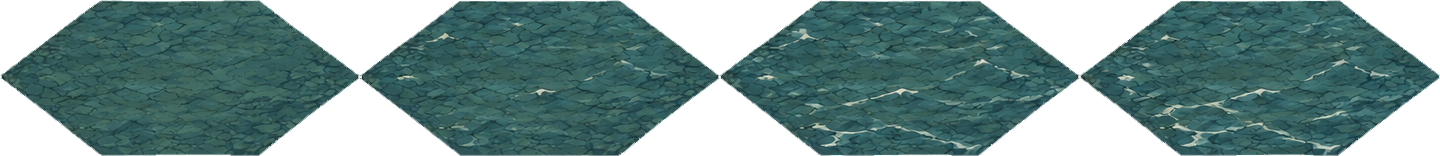
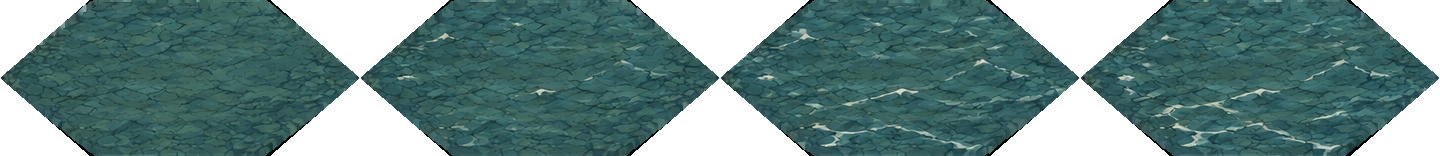
Let the pond be one body of water
Two defects, and the second one was a bad argument of mine rather than a bug.

The cells did not join. Measured by connected components of the water against a
dry board: five cells drawing as three pieces, with a 5px strip of dry ground
along every shared edge. The mesh was not at fault and that had to be shown
before fixing anything - (6,5) and (7,5) share their corners to the last digit,
a flat board with no walls or ramps still gave three pieces, and depth from 0.15
to 1.20 did not change the count, so nothing was occluding it either.

It was the art. The sheet arrived keyed, so its hexagon is carried by the alpha
and fades out over 3-7px; a frame is cut to the plate exactly, so that fade sits
on the frame's own boundary and two cells meeting lay two of them on top of each
other. Alpha 15 of 255 at the outermost column. Fixed where it was made: the
mesh is already a hexagon, so the texture must not be one too - water_sheet.py
carries the colour outward and sets the alpha to the plate's own hexagon, hard,
which is exactly how the pond behaved as a flat colour with no texture at all.
SwellBleed stays for what a hard mask cannot help, a linear sample reaching half
a texel past the edge, and WaterArt.EdgeAlpha measures what the mesh can
actually reach: 0.58 before, 1.00 after, one component instead of three.

And the per-cell phase is gone. It was put in on the rule every clock in this
bench obeys - three tanks tremble on their own - and that rule is about separate
[…]

diff --git a/GodotTest/scripts/Stage3D.cs b/GodotTest/scripts/Stage3D.cs
@@ -938,7 +938,7 @@ void fragment() {{
     /// with it - so water that let most of the bottom through would read as a stain
     /// on the grass, and water that let none through would read as a hole.
     /// </summary>
-    public static readonly Color Pond = new(0.038f, 0.117f, 0.112f, 0.66f);
+    public static readonly Color Pond = new(0.038f, 0.114f, 0.110f, 0.66f);
 
     /// <summary>
     /// What a wading tank's submerged half is tinted with: the drawn surface's
@@ -1180,6 +1180,12 @@ void fragment() {{
             halfX = Mathf.Max(halfX, Mathf.Abs(c.X));
             halfZ = Mathf.Max(halfZ, Mathf.Abs(c.Z));
         }
+        // Pulled in off its own boundary, exactly as the ground faces are - see
+        // Bleed, which is this defect solved once already.
+        Vector2 inset = drawn
+            ? new Vector2(1.0f - 2.0f * SwellBleed / Surf!.Frame.X,
+                          1.0f - 2.0f * SwellBleed / Surf!.Frame.Y)
+            : Vector2.One;
         var st = new SurfaceTool();
         st.Begin(Mesh.PrimitiveType.Triangles);
         bool any = false;
@@ -1192,7 +1198,6 @@ void fragment() {{
             any = true;
             Vector2 flat = Origin + Field.FlatAnchor(cell) + Field.CentreOffset;
             Vector3 top = World(flat, Field.WaterTop(cell));
-            var offset = new Vector2(SwellAt(cell), 0.0f);
             for (int i = 1; i + 1 < 6; i++)
             foreach (int k in new[] { 0, i, i + 1 })
             {
@@ -1200,9 +1205,9 @@ void fragment() {{
                 // +Z reads as +v, the same way the ground art is laid on a top
                 // face: two conventions in one scene is how a texture comes out
                 // mirrored on one surface and nobody can say against what.
-                st.SetUV(new Vector2(0.5f + corner[k].X / (2.0f * halfX),
-                                     0.5f + corner[k].Z / (2.0f * halfZ)));
-                st.SetUV2(offset);
+                st.SetUV(new Vector2(
+                    0.5f + inset.X * corner[k].X / (2.0f * halfX),
+                    0.5f + inset.Y * corner[k].Z / (2.0f * halfZ)));
                 st.AddVertex(top + corner[k]);
             }
         }
@@ -1216,26 +1221,24 @@ void fragment() {{
     }
 
     /// <summary>
-    /// Where in the loop a cell starts, 0..1.
+    /// How far inside its own frame the surface stops sampling, in art px.
     ///
-    /// <b>Per cell, because five hexagons breathing together are one animation
-    /// played five times.</b> That is the objection every clock in this project
-    /// has already answered - the three tanks have their own tremble, their own
-    /// exhaust, their own gunner - arriving at the one surface that is drawn as a
-    /// single mesh and would otherwise pulse as one.
+    /// <b>The belt, not the braces.</b> What actually broke the pond was the art
+    /// carrying a keyed rim: a frame is exactly the plate, so the hexagon faded
+    /// out on the frame's own boundary, two cells meeting laid two fades on top of
+    /// each other, and the five-cell pond drew as three pieces with a 5px strip of
+    /// dry ground along every shared edge. That is fixed where it was made -
+    /// <c>water_sheet.py</c> hardens the alpha, because <b>the mesh is already a
+    /// hexagon and the texture must not be one too</b>.
     ///
-    /// Hashed off the cell rather than drawn from a generator, for
-    /// <see cref="TerrainSet.MixedAt"/>'s reason: --capture and --trace fix the
-    /// time step so two runs can be diffed, and a pond that reshuffled itself
-    /// would be measuring itself.
+    /// This stays for what a hard mask cannot help: the outermost texel of a hard
+    /// edge is still half a texel from the boundary, and a linear sample there
+    /// reaches across it. Eight is 2.2% of a 360px plate, the same fraction
+    /// <see cref="Bleed"/> takes off the ground's 248px plate for the same reason.
+    /// <see cref="WaterArt.EdgeAlpha"/> is what holds the pair honest: it measures
+    /// the alpha the mesh can actually reach, after this.
     /// </summary>
-    public static float SwellAt(Vector2I cell)
-    {
-        int h = cell.X * 73856093 ^ cell.Y * 19349663;
-        h = (h ^ (h >> 13)) * 1274126177;
-        h ^= h >> 16;
-        return ((uint)h % 1000u) / 1000.0f;
-    }
+    internal const float SwellBleed = 8.0f;
 
     /// <summary>
     /// How long one turn of the water's frames takes, in seconds.
@@ -1271,11 +1274,18 @@ void fragment() {{
     /// The pond's surface: one frame of the strip, chosen per cell and per
     /// moment, at the flat colour's own opacity.
     ///
-    /// <b>The step is taken in the shader and not in the mesh</b>, which is the
-    /// whole reason the phase rides in UV2. Advancing the frame by rewriting the
-    /// UVs would rebuild the board's geometry sixty times a second for a picture
-    /// that has not changed shape - and <see cref="Build"/> is deliberately gated
-    /// on the board changing at all.
+    /// <b>One phase for the whole pond, and the per-cell one was wrong.</b> It was
+    /// put in on the rule every clock in this bench obeys - three tanks tremble on
+    /// their own, exhaust on their own, scan on their own - and that rule is about
+    /// <i>separate objects</i>. A pond is one body of water. Desynchronised, its
+    /// cells show different moments of the same swell either side of a shared edge,
+    /// so the edge is the one place the picture disagrees with itself, and every
+    /// cell boundary is drawn by the water rather than hidden by it.
+    ///
+    /// <b>The step is taken in the shader and not in the mesh.</b> Advancing the
+    /// frame by rewriting the UVs would rebuild the board's geometry sixty times a
+    /// second for a picture that has not changed shape - and <see cref="Build"/> is
+    /// deliberately gated on the board changing at all.
     ///
     /// <b>Inset by half a texel.</b> A frame is exactly the plate, so the
     /// hexagon's left and right vertices sit on the frame's own boundary, and a
@@ -1294,7 +1304,7 @@ uniform vec4 tint = vec4(0.0);
 uniform float frames = 1.0;
 uniform float phase = 0.0;
 void fragment() {
-    float step = floor(fract(phase + UV2.x) * frames);
+    float step = floor(fract(phase) * frames);
     float inset = 0.5 * frames / float(textureSize(surf, 0).x);
     float u = clamp(UV.x, inset, 1.0 - inset);
     vec4 c = texture(surf, vec2((u + step) / frames, UV.y));

diff --git a/water_sheet.py b/water_sheet.py
@@ -31,6 +31,12 @@ The other two reasons, both measured (see ``report``):
   seam anything over 4.  The full twelve do not: their wrap is 41.5 against a
   worst normal step of 33.2.
 
+And one thing the frames arrive with that has to be taken off them: **the keyed
+rim**.  The sheet came shaped by its alpha, which is right for a picture standing
+on its own and wrong here, because the surface mesh is already that hexagon.  Two
+cells meeting edge to edge laid two fades on top of each other and the pond drew
+as separate pieces - see ``_harden``.
+
 Plain Python, no Blender: this is a pure function of pixels, the same argument
 ``atlas_pack.repack_dir`` makes.
 
@@ -140,6 +146,61 @@ def _linear(c: int) -> float:
     return v / 12.92 if v <= 0.04045 else ((v + 0.055) / 1.055) ** 2.4
 
 
+def _harden(frame: np.ndarray) -> np.ndarray:
+    """Give the frame a hard hexagon and colour that reaches it.
+
+    **The mesh is already a hexagon, so the texture must not be one too.**  The
+    sheet arrived keyed, which means its hexagon fades out over three to seven
+    pixels of rim - and a frame is cut to the plate exactly, so that rim sits on
+    the frame's own boundary.  Two cells meeting edge to edge then lay two of
+    those fades on top of each other, and the pond draws as separate pieces with
+    dry ground along every shared edge.  Measured on the first cut: alpha 15 of
+    255 at the outermost column, five cells rendering as three.
+
+    So the alpha becomes the plate's own hexagon, hard: opaque inside, nothing
+    outside, no rim to double up.  The shape is not lost - the surface mesh is
+    that same hexagon, and it is what cuts the silhouette, exactly as it did when
+    the pond was a flat colour with no texture at all.
+
+    Colour is carried outward first.  Where alpha was low the stored colour is
+    whatever survived unpremultiplying near zero, and turning that opaque would
+    hang a dark fringe on the water; each pass hands an unresolved pixel the mean
+    of its solid neighbours, which is the same trick that fills a keyed sheet's
+    edge everywhere else in this project.
+    """
+    out = frame.astype(np.float64).copy()
+    solid = out[:, :, 3] > 250
+    for _ in range(_FILL_PASSES):
+        if solid.all():
+            break
+        near = np.zeros(out.shape[:2] + (4,), dtype=np.float64)
+        count = np.zeros(out.shape[:2], dtype=np.float64)
+        for dy, dx in ((1, 0), (-1, 0), (0, 1), (0, -1)):
+            rolled = np.roll(np.roll(out[:, :, :3] * solid[:, :, None], dy, 0), dx, 1)
+            near[:, :, :3] += rolled
+            count += np.roll(np.roll(solid, dy, 0), dx, 1)
+        grow = (~solid) & (count > 0)
+        out[:, :, :3] = np.where(
+            grow[:, :, None], near[:, :, :3] / np.maximum(count, 1)[:, :, None],
+            out[:, :, :3])
+        solid = solid | grow
+
+    h, w = out.shape[:2]
+    y, x = np.mgrid[0:h, 0:w]
+    # A flat-top hexagon inscribed in the plate: the left boundary runs from 0 at
+    # mid height to w/4 at either end, and the right one mirrors it. Straight off
+    # the frame's size, with no trigonometry - the plate already is the camera.
+    left = (w / 2.0) * np.abs(y + 0.5 - h / 2.0) / h
+    inside = (x + 0.5 >= left) & (x + 0.5 <= w - left)
+    out[:, :, 3] = np.where(inside, 255.0, 0.0)
+    return np.clip(out, 0, 255).astype(np.uint8)
+
+
+#: How far colour is carried out past the keyed rim. Seven, one past the widest
+#: rim measured on the shipped sheet.
+_FILL_PASSES = 7
+
+
 def _stats(frame: np.ndarray) -> tuple[tuple[int, int, int], float, float]:
     """Mean colour, spread of luminance and the near-white share, over the
     frame's solid interior. The spread is the number that decides whether a
@@ -177,7 +238,8 @@ def run(cfg=CONFIG) -> dict:
 
     frames = []
     for x0, y0, w, h in boxes:
-        frames.append(_resize(img[y0 : y0 + h, x0 : x0 + w], (width, tall)))
+        frames.append(
+            _harden(_resize(img[y0 : y0 + h, x0 : x0 + w], (width, tall))))
 
     strip = np.concatenate(frames, axis=1)
     out = os.path.join(here, cfg["out"])

diff --git a/GodotTest/scripts/WaterArt.cs b/GodotTest/scripts/WaterArt.cs
@@ -71,6 +71,22 @@ public sealed class WaterArt
     /// This is what a wading tank is tinted with.</summary>
     public Color Mean { get; private set; }
 
+    /// <summary>
+    /// The least alpha the mesh can sample anywhere on its own boundary, once
+    /// <see cref="Stage3D.SwellBleed"/> has pulled it in.
+    ///
+    /// <b>The number the pond broke on.</b> A frame is exactly the plate, so the
+    /// hexagon's keyed rim lies on the frame's own edge - and where two cells meet,
+    /// two of those fades land on top of each other. Shipped as cut, the outermost
+    /// column was alpha 15 of 255 and the five-cell pond drew as three separate
+    /// pieces with dry ground between them. Nothing in the picture said so except
+    /// the picture.
+    ///
+    /// Measured over the hexagon's six vertices and six edge midpoints, which is
+    /// exactly the boundary a neighbour is on the other side of.
+    /// </summary>
+    public float EdgeAlpha { get; private set; }
+
     public string Note { get; private set; } = "no water art";
 
     /// <summary>Usable as a moving surface. Two frames is the least that can
@@ -123,10 +139,12 @@ public sealed class WaterArt
         set.Frames = frames;
         set.Frame = new Vector2I(w / frames, h);
         set.Mean = MeanOf(art);
+        set.EdgeAlpha = RimOf(art, set.Frame, frames);
         art.GenerateMipmaps();
         set.Texture = ImageTexture.CreateFromImage(art);
         set.Note = $"{File} {w}x{h}, {frames} frames of {set.Frame.X}"
-                   + $"x{set.Frame.Y}, mean {set.Mean.ToHtml(false)}";
+                   + $"x{set.Frame.Y}, mean {set.Mean.ToHtml(false)}, edge alpha "
+                   + $"{set.EdgeAlpha:F2}";
         return set;
     }
 
@@ -144,6 +162,45 @@ public sealed class WaterArt
     /// visibly lighter than the surface beside it - which is the exact seam
     /// this number exists to close.
     /// </summary>
+    /// <summary>
+    /// The worst alpha on the drawn boundary of every frame, after the bleed.
+    ///
+    /// The twelve points are the flat-top hexagon's own: six vertices at
+    /// <c>(±0.5, 0)</c> and <c>(±0.25, ±0.5)</c> of the frame, and the six edge
+    /// midpoints between them. In frame-local terms that is exactly what
+    /// <see cref="Stage3D"/> hands the mesh, so this asks the question the mesh
+    /// asks and not a similar one.
+    /// </summary>
+    private static float RimOf(Image art, Vector2I frame, int frames)
+    {
+        // Straight out of the frame's own size, with no trigonometry in it: a
+        // flat-top hexagon drawn on a plate has its vertices at (+-w/2, 0) and
+        // (+-w/4, +-h/2), and the plate is already the camera's squash. The same
+        // statement SelectionRing makes about the tile.
+        var hex = new[]
+        {
+            new Vector2(0.5f, 0.0f), new Vector2(0.25f, 0.5f),
+            new Vector2(-0.25f, 0.5f), new Vector2(-0.5f, 0.0f),
+            new Vector2(-0.25f, -0.5f), new Vector2(0.25f, -0.5f),
+        };
+        var inset = new Vector2(1.0f - 2.0f * Stage3D.SwellBleed / frame.X,
+                                1.0f - 2.0f * Stage3D.SwellBleed / frame.Y);
+        float worst = 1.0f;
+        for (int f = 0; f < frames; f++)
+        for (int i = 0; i < 6; i++)
+        foreach (Vector2 p in new[] { hex[i], (hex[i] + hex[(i + 1) % 6]) * 0.5f })
+        {
+            var at = new Vector2I(
+                Mathf.Clamp(f * frame.X
+                            + Mathf.RoundToInt((0.5f + inset.X * p.X) * frame.X),
+                            f * frame.X, (f + 1) * frame.X - 1),
+                Mathf.Clamp(Mathf.RoundToInt((0.5f + inset.Y * p.Y) * frame.Y),
+                            0, frame.Y - 1));
+            worst = Mathf.Min(worst, art.GetPixel(at.X, at.Y).A);
+        }
+        return worst;
+    }
+
     private static Color MeanOf(Image art)
     {
         double r = 0.0, g = 0.0, b = 0.0;

diff --git a/GodotTest/scripts/SelfTest.cs b/GodotTest/scripts/SelfTest.cs
@@ -6714,26 +6714,36 @@ public static class SelfTest
                     $"the art is {got:F4} against the tile's {want:F4} - "
                     + $"{Math.Abs(got - want) / want:P1} out, see water_sheet.py");
 
-                // The one thing a single mesh cannot say for itself. Every clock
-                // in this bench is per tank for this reason; the pond is drawn as
-                // one surface, so the phase has to be carried per cell or five
-                // hexagons breathe together and read as one animation played five
-                // times.
-                var phases = pond.Select(Stage3D.SwellAt).ToList();
-                Check("and each flooded cell starts its loop somewhere else",
-                    phases.Distinct().Count() == phases.Count,
-                    $"{phases.Count - phases.Distinct().Count()} of "
-                    + $"{phases.Count} cells share a phase with another");
+                // A pond is one body of water, so it shows one moment of itself.
+                // The per-cell phase this replaces came from the rule the clocks
+                // obey - three tanks tremble on their own - and that rule is about
+                // separate objects: desynchronised, two cells show different
+                // moments of the same swell either side of a shared edge, so the
+                // water draws every cell boundary instead of hiding it.
+                Check("and the whole pond shows one moment of the same swell",
+                    !Stage3D.SwellShader.Contains("UV2"),
+                    "the surface takes a phase per cell, so its cells disagree "
+                    + "across every edge they share");
 
-                // The step is taken in the shader, off UV2, and not by rewriting
-                // the mesh: Build is deliberately gated on the board changing at
-                // all, so a surface that advanced its frames through its UVs would
-                // rebuild the whole board sixty times a second.
+                // The step is taken in the shader and not by rewriting the mesh:
+                // Build is deliberately gated on the board changing at all, so a
+                // surface that advanced its frames through its UVs would rebuild
+                // the whole board sixty times a second.
                 Check("and the frame steps in the shader rather than in the mesh",
-                    Stage3D.SwellShader.Contains("UV2.x")
-                    && Stage3D.SwellShader.Contains("(u + step) / frames"),
+                    Stage3D.SwellShader.Contains("(u + step) / frames"),
                     "the surface shader does not step frames, so the loop can "
                     + "only move by the board being rebuilt");
+
+                // What the pond actually broke on, and nothing but the picture
+                // said so: a frame is exactly the plate, so the keyed rim lies on
+                // the frame's own edge and two cells meeting lay two fades on top
+                // of each other. Five cells drew as three pieces with dry ground
+                // between them. Measured where the mesh samples, after the bleed.
+                Check("and it is opaque along the edge a neighbour is on",
+                    surf.EdgeAlpha >= 0.99f,
+                    $"the drawn boundary bottoms out at alpha {surf.EdgeAlpha:F2} "
+                    + $"with {Stage3D.SwellBleed:F0}px of bleed - every shared "
+                    + "edge is a strip of dry ground");
 
                 // The flat fallback and the art have to be the same water. This
                 // is what makes --flat-water an A/B about the texture: a fallback
